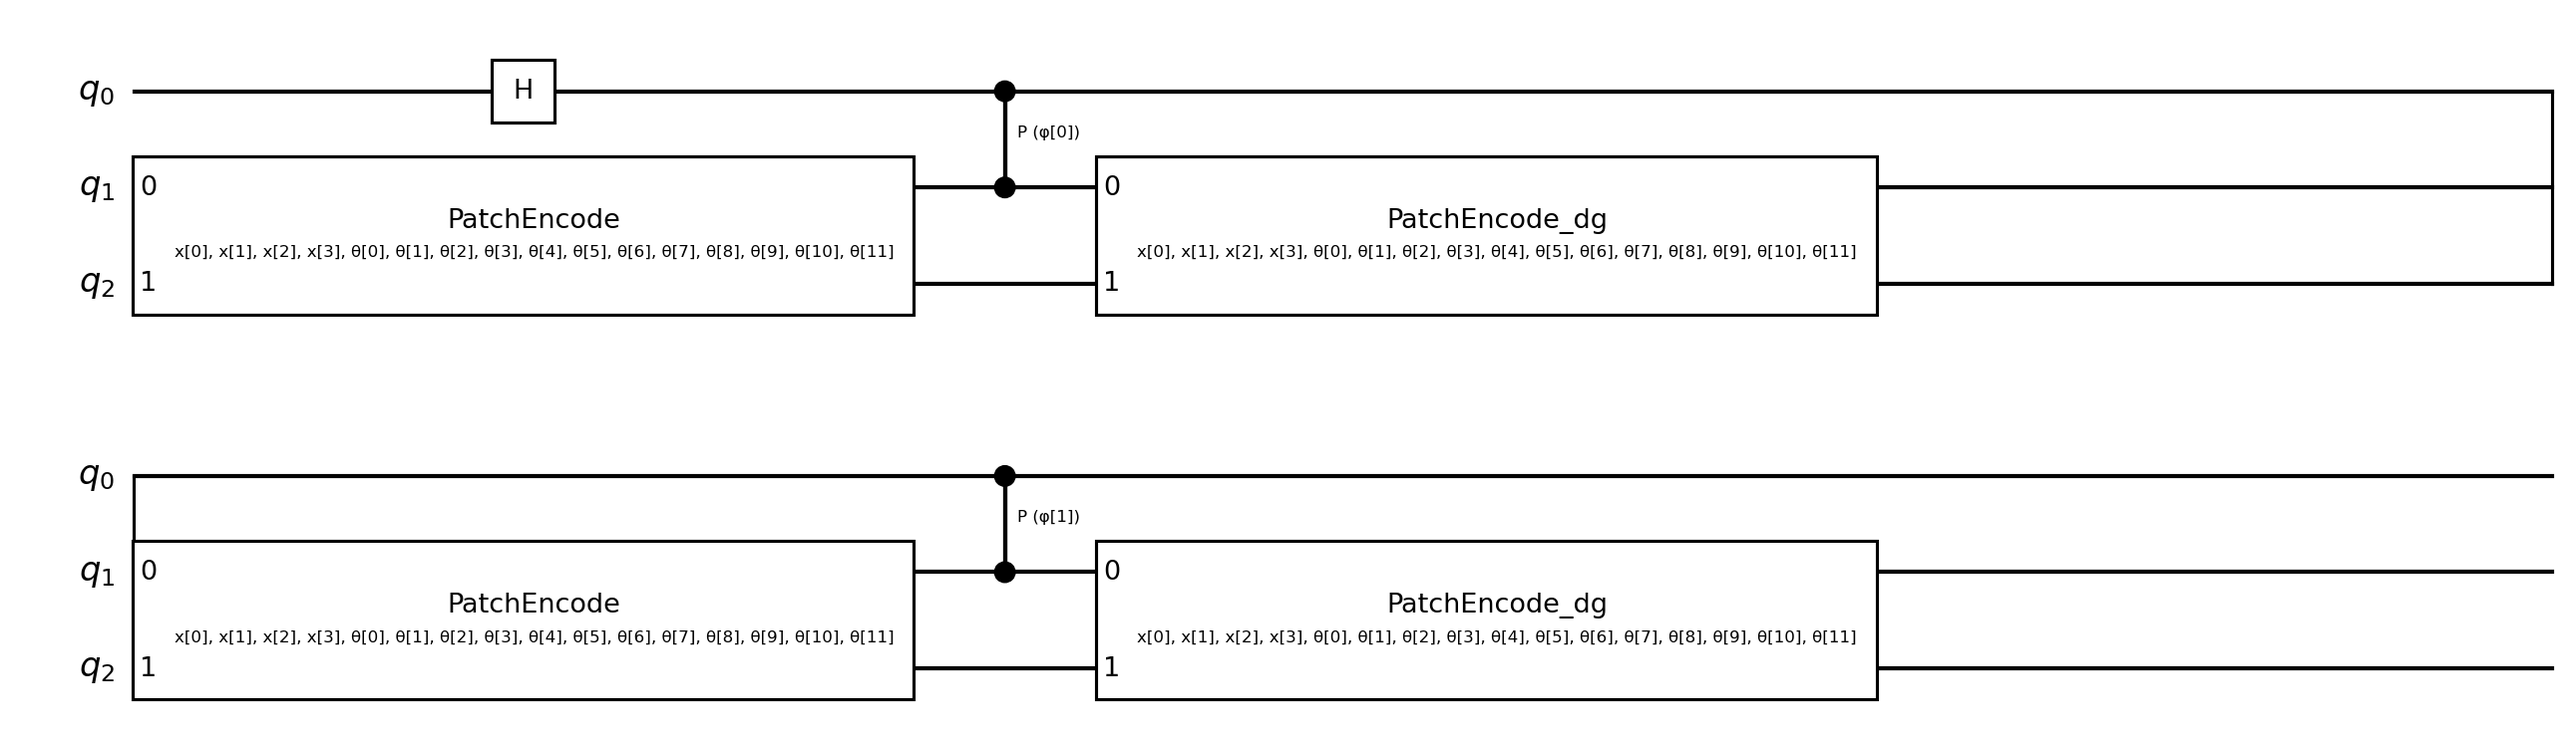
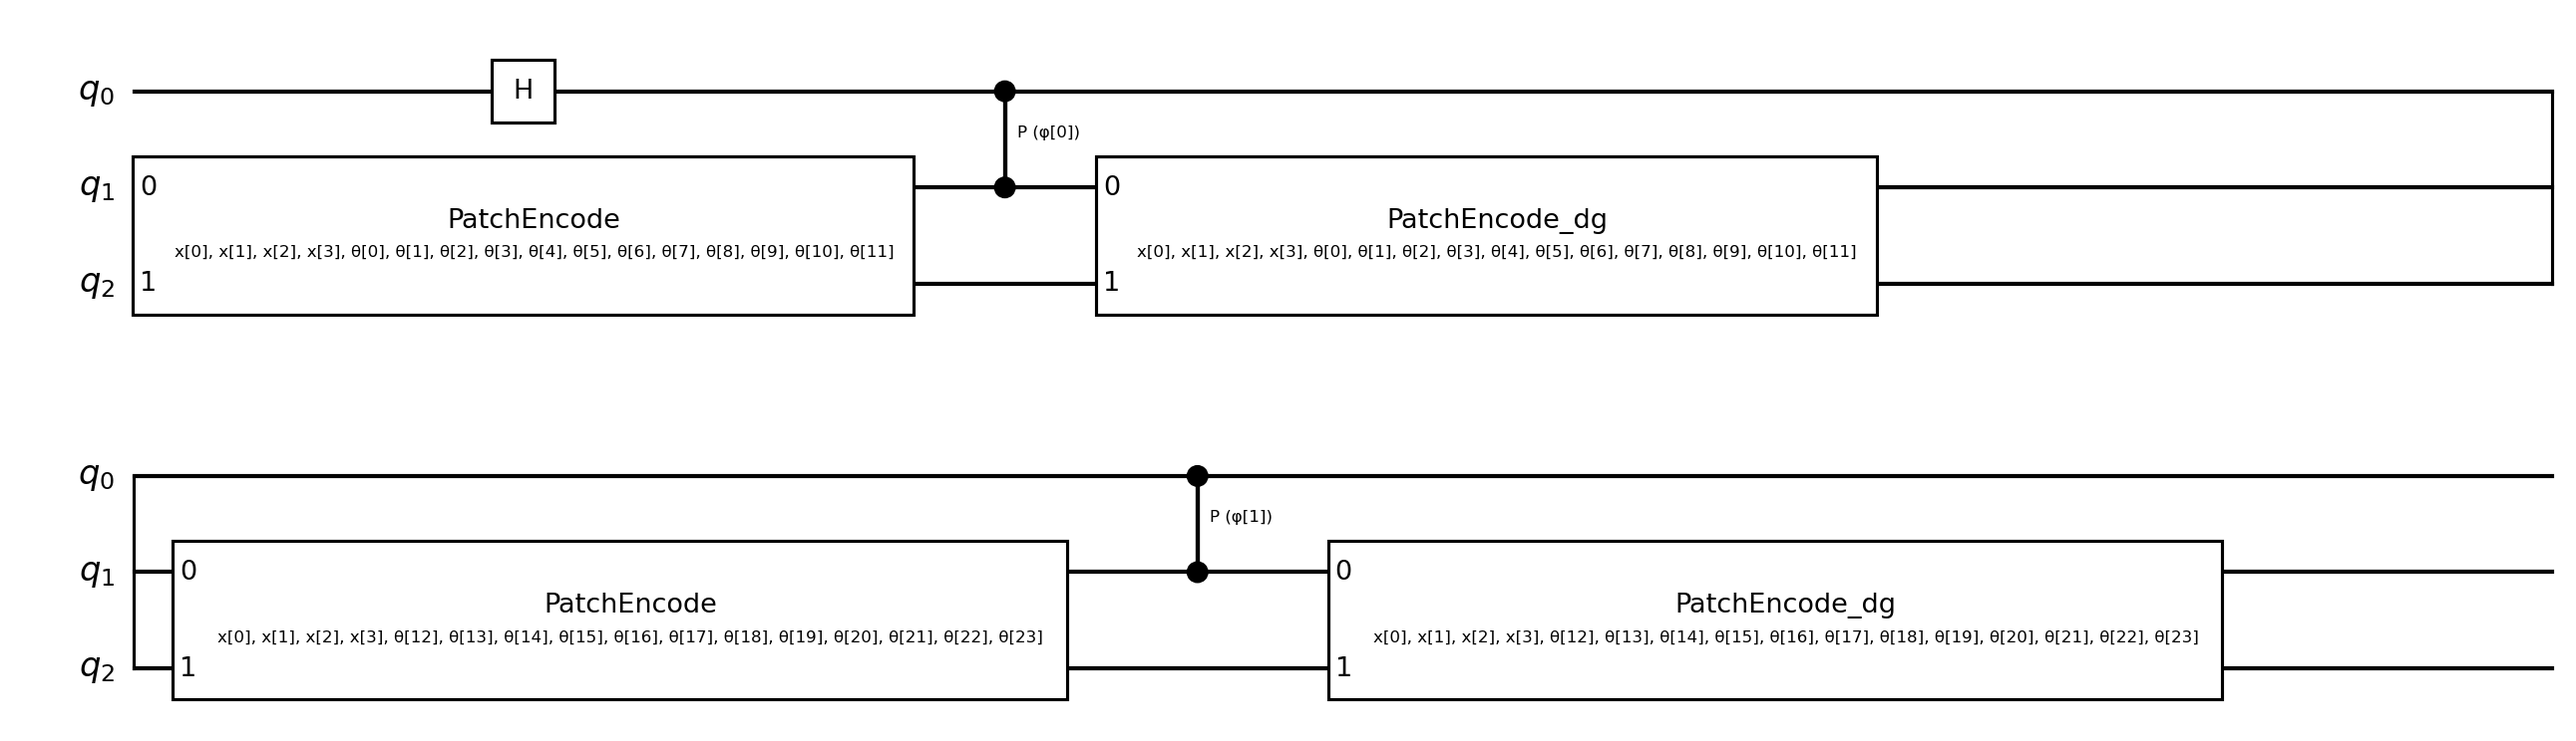
updates

diff --git a/tiny-handwritten-digits/contrastive_learning/with_qiskit/two_by_two_patch_D_and_R.py b/tiny-handwritten-digits/contrastive_learning/with_qiskit/two_by_two_patch_D_and_R.py
@@ -30,17 +30,18 @@ def FourPixelDepositAndReverse(
     """
 
     :param pixels: four-element array
-    :param encode_parameters: 6N-element array, one-dim, where N is the number of "layers" of data-reuploading
+    :param encode_parameters: 6NL-element array, one-dim, where N is the number of "layers" of data-reuploading and L is the number of D&R repetitions
     :param phase_parameters: L-element array, one-dim, where L is the number of D&R repetitions
     :param to_gate:
     :return: a gate or circuit, in which the first qubit will have the image patch encoded as phase information
     """
     circ = QuantumCircuit(3, name = "FourPixelDepositAndReverse")
     n_layers = len(phase_parameters)
-    img_patch_encode_gate = FourPixelEncodeTwoQubits(pixels, encode_parameters, to_gate=to_gate)
-    img_patch_encode_gate_inv = img_patch_encode_gate.inverse()
+    n_params_per_encode = len(encode_parameters) // n_layers
     circ.h(0)
     for i in range(n_layers):
+        img_patch_encode_gate = FourPixelEncodeTwoQubits(pixels, encode_parameters[n_params_per_encode*i:n_params_per_encode*(i+1)], to_gate=to_gate)
+        img_patch_encode_gate_inv = img_patch_encode_gate.inverse()
         circ.append(img_patch_encode_gate, [1, 2])
         circ.cp(phase_parameters[i], 0, 1)
         circ.append(img_patch_encode_gate_inv, [1, 2])
@@ -49,9 +50,12 @@ def FourPixelDepositAndReverse(
 
 if __name__ == '__main__':
 
+    N = 2
+    L = 2
+
     x = ParameterVector('x', 4)
-    theta = ParameterVector('θ', 12)
-    phi = ParameterVector('φ', 2)
+    theta = ParameterVector('θ', 6*N*L)
+    phi = ParameterVector('φ', L)
     circ = FourPixelDepositAndReverse(x, theta, phi, to_gate=False)
     circ.draw(output='mpl', style='bw', filename='FourPixelDepositAndReverse.png')
 
